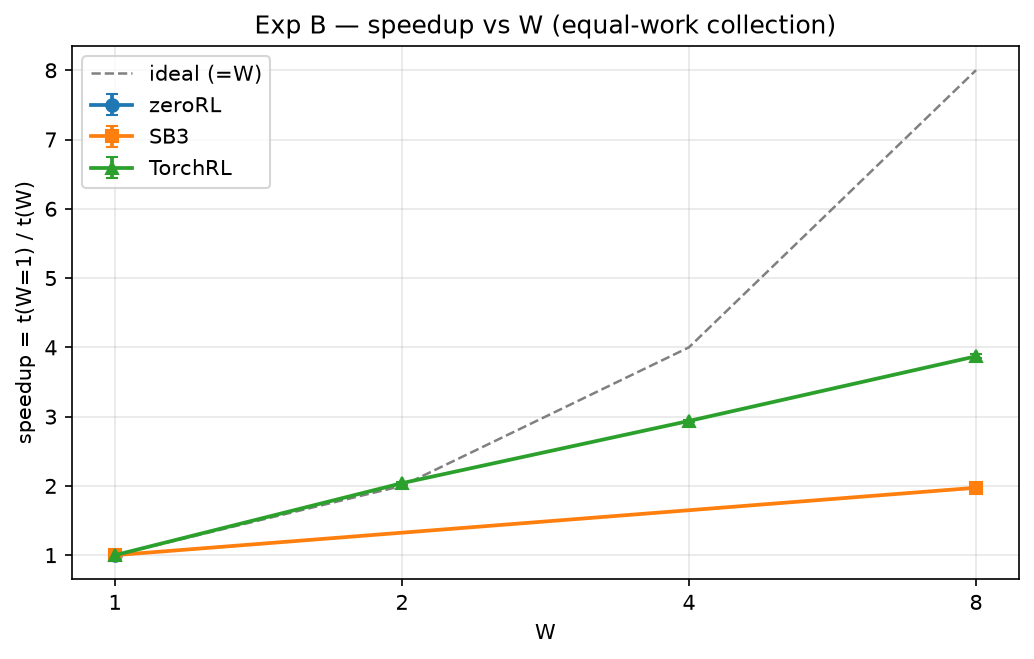
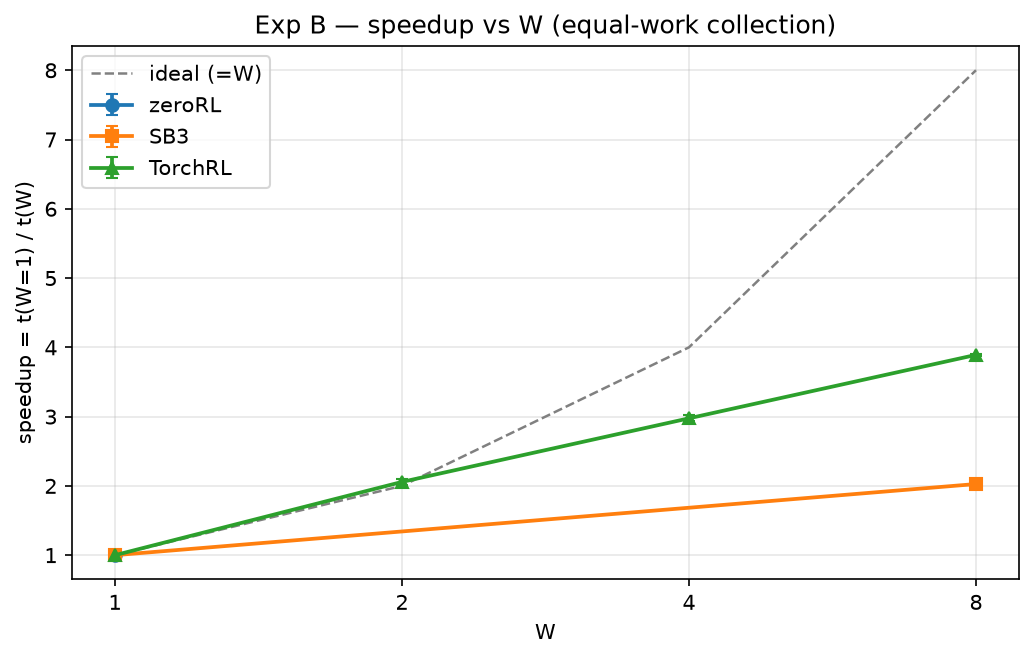
update results

diff --git a/benchmarks/scalability/results/REPORT.md b/benchmarks/scalability/results/REPORT.md
@@ -1,6 +1,6 @@
 # Scalability benchmark report
 
-Generated: 2026-11-08T14:12:19.817445+00:00 · rows: 427 · figures in `figures/`
+Generated: 2026-11-09T22:45:51.028926+00:00 · rows: 652 · figures in `figures/`
 
 ## Environment
 
@@ -33,21 +33,21 @@ Generated: 2026-11-08T14:12:19.817445+00:00 · rows: 427 · figures in `figures/
 
 | framework | N | throughput (trans/s) | mean time (s) | speedup (paired) | env-scaling efficiency (paired) | pairs (n) |
 | --- | --- | --- | --- | --- | --- | --- |
-| zeroRL | 1 | 606.0 ± 10.7 | 165.07 | 1.00 | 1.00 | 5 |
-| zeroRL | 2 | 806.7 ± 31.4 | 124.14 | 1.35 ± 0.01 | 0.68 ± 0.01 | 5 |
-| zeroRL | 4 | 1,074.0 ± 32.2 | 93.19 | 1.79 ± 0.01 | 0.45 ± 0.00 | 5 |
-| zeroRL | 8 | 1,136.9 ± 38.2 | 88.06 | 1.90 ± 0.02 | 0.24 ± 0.00 | 5 |
-| zeroRL | 16 | 1,329.3 ± 33.9 | 75.28 | 2.21 ± 0.01 | 0.14 ± 0.00 | 5 |
-| SB3 | 1 | 618.6 ± 10.1 | 161.71 | 1.00 | 1.00 | 5 |
-| SB3 | 2 | 791.7 ± 34.1 | 126.52 | 1.33 ± 0.01 | 0.66 ± 0.00 | 5 |
-| SB3 | 4 | 1,059.2 ± 29.9 | 94.48 | 1.74 ± 0.01 | 0.44 ± 0.00 | 5 |
-| SB3 | 8 | 1,116.7 ± 41.6 | 89.67 | 1.86 ± 0.01 | 0.23 ± 0.00 | 5 |
-| SB3 | 16 | 1,304.4 ± 33.7 | 76.71 | 2.14 ± 0.01 | 0.13 ± 0.00 | 5 |
-| TorchRL | 1 | 369.2 ± 14.1 | 271.25 | 1.00 | 1.00 | 5 |
-| TorchRL | 2 | 590.6 ± 19.1 | 169.50 | 1.59 ± 0.01 | 0.79 ± 0.01 | 5 |
-| TorchRL | 4 | 864.7 ± 22.6 | 115.72 | 2.31 ± 0.02 | 0.58 ± 0.00 | 5 |
-| TorchRL | 8 | 995.2 ± 38.1 | 100.61 | 2.66 ± 0.02 | 0.33 ± 0.00 | 5 |
-| TorchRL | 16 | 1,221.5 ± 32.6 | 81.92 | 3.23 ± 0.02 | 0.20 ± 0.00 | 5 |
+| zeroRL | 1 | 607.3 ± 9.7 | 164.70 | 1.00 | 1.00 | 5 |
+| zeroRL | 2 | 812.2 ± 28.7 | 123.27 | 1.35 ± 0.01 | 0.68 ± 0.00 | 5 |
+| zeroRL | 4 | 1,080.0 ± 29.8 | 92.66 | 1.79 ± 0.01 | 0.45 ± 0.00 | 5 |
+| zeroRL | 8 | 1,142.4 ± 34.3 | 87.61 | 1.89 ± 0.01 | 0.24 ± 0.00 | 5 |
+| zeroRL | 16 | 1,332.7 ± 29.9 | 75.07 | 2.20 ± 0.01 | 0.14 ± 0.00 | 5 |
+| SB3 | 1 | 622.3 ± 11.0 | 160.73 | 1.00 | 1.00 | 5 |
+| SB3 | 2 | 804.4 ± 37.0 | 124.57 | 1.33 ± 0.01 | 0.66 ± 0.01 | 5 |
+| SB3 | 4 | 1,071.6 ± 33.9 | 93.41 | 1.75 ± 0.01 | 0.44 ± 0.00 | 5 |
+| SB3 | 8 | 1,128.6 ± 41.5 | 88.72 | 1.84 ± 0.01 | 0.23 ± 0.00 | 5 |
+| SB3 | 16 | 1,314.7 ± 34.3 | 76.11 | 2.12 ± 0.01 | 0.13 ± 0.00 | 5 |
+| TorchRL | 1 | 373.7 ± 14.5 | 267.99 | 1.00 | 1.00 | 5 |
+| TorchRL | 2 | 597.6 ± 20.7 | 167.52 | 1.60 ± 0.01 | 0.80 ± 0.00 | 5 |
+| TorchRL | 4 | 872.2 ± 23.6 | 114.73 | 2.31 ± 0.01 | 0.58 ± 0.00 | 5 |
+| TorchRL | 8 | 1,005.5 ± 34.1 | 99.57 | 2.65 ± 0.02 | 0.33 ± 0.00 | 5 |
+| TorchRL | 16 | 1,228.5 ± 28.4 | 81.44 | 3.21 ± 0.02 | 0.20 ± 0.00 | 5 |
 
 ![throughput](figures/expA_humanoidstandupv5_throughput.png)
 
@@ -60,16 +60,41 @@ Generated: 2026-11-08T14:12:19.817445+00:00 · rows: 427 · figures in `figures/
 
 | framework | W | throughput (trans/s) | mean time (s) | speedup (paired) | worker parallel efficiency (paired) | pairs (n) |
 | --- | --- | --- | --- | --- | --- | --- |
-| zeroRL | 1 | 1,159.6 ± 6.7 | 86.24 | 1.00 | 1.00 | 5 |
-| SB3 | 1 | 1,167.6 ± 3.3 | 85.65 | 1.00 | 1.00 | 5 |
-| SB3 | 8 | 2,259.8 ± 57.7 | 44.28 | 1.97 ± 0.04 | 0.25 ± 0.01 | 5 |
-| TorchRL | 1 | 1,030.9 ± 3.2 | 97.01 | 1.00 | 1.00 | 5 |
-| TorchRL | 2 | 2,101.8 ± 20.2 | 47.58 | 2.04 ± 0.02 | 1.02 ± 0.01 | 5 |
-| TorchRL | 4 | 3,036.2 ± 24.0 | 32.94 | 2.94 ± 0.02 | 0.73 ± 0.00 | 5 |
-| TorchRL | 8 | 3,983.5 ± 25.7 | 25.10 | 3.87 ± 0.03 | 0.48 ± 0.00 | 5 |
+| zeroRL | 1 | 1,159.2 ± 6.4 | 86.27 | 1.00 | 1.00 | 5 |
+| SB3 | 1 | 1,168.4 ± 3.2 | 85.59 | 1.00 | 1.00 | 5 |
+| SB3 | 8 | 2,297.0 ± 73.4 | 43.58 | 2.03 ± 0.03 | 0.25 ± 0.00 | 5 |
+| TorchRL | 1 | 1,028.8 ± 4.1 | 97.20 | 1.00 | 1.00 | 5 |
+| TorchRL | 2 | 2,103.9 ± 28.4 | 47.54 | 2.06 ± 0.04 | 1.03 ± 0.02 | 5 |
+| TorchRL | 4 | 3,040.5 ± 31.7 | 32.89 | 2.98 ± 0.04 | 0.74 ± 0.01 | 5 |
+| TorchRL | 8 | 3,984.8 ± 21.5 | 25.10 | 3.89 ± 0.01 | 0.49 ± 0.00 | 5 |
 
 **Unsupported (recorded, not run)**:
 
+- zeroRL W=2: zeroRL has no multi-process environment path (vectorize_env -> SyncVectorEnv only); W>=2 unsupported
+- zeroRL W=2: zeroRL has no multi-process environment path (vectorize_env -> SyncVectorEnv only); W>=2 unsupported
+- zeroRL W=2: zeroRL has no multi-process environment path (vectorize_env -> SyncVectorEnv only); W>=2 unsupported
+- zeroRL W=2: zeroRL has no multi-process environment path (vectorize_env -> SyncVectorEnv only); W>=2 unsupported
+- zeroRL W=2: zeroRL has no multi-process environment path (vectorize_env -> SyncVectorEnv only); W>=2 unsupported
+- zeroRL W=4: zeroRL has no multi-process environment path (vectorize_env -> SyncVectorEnv only); W>=2 unsupported
+- zeroRL W=4: zeroRL has no multi-process environment path (vectorize_env -> SyncVectorEnv only); W>=2 unsupported
+- zeroRL W=4: zeroRL has no multi-process environment path (vectorize_env -> SyncVectorEnv only); W>=2 unsupported
+- zeroRL W=4: zeroRL has no multi-process environment path (vectorize_env -> SyncVectorEnv only); W>=2 unsupported
+- zeroRL W=4: zeroRL has no multi-process environment path (vectorize_env -> SyncVectorEnv only); W>=2 unsupported
+- zeroRL W=8: zeroRL has no multi-process environment path (vectorize_env -> SyncVectorEnv only); W>=2 unsupported
+- zeroRL W=8: zeroRL has no multi-process environment path (vectorize_env -> SyncVectorEnv only); W>=2 unsupported
+- zeroRL W=8: zeroRL has no multi-process environment path (vectorize_env -> SyncVectorEnv only); W>=2 unsupported
+- zeroRL W=8: zeroRL has no multi-process environment path (vectorize_env -> SyncVectorEnv only); W>=2 unsupported
+- zeroRL W=8: zeroRL has no multi-process environment path (vectorize_env -> SyncVectorEnv only); W>=2 unsupported
+- SB3 W=2: SB3 SubprocVecEnv runs exactly one process per env, so only W=1 (DummyVecEnv) and W=8 (SubprocVecEnv) exist; W=2 unsupported
+- SB3 W=2: SB3 SubprocVecEnv runs exactly one process per env, so only W=1 (DummyVecEnv) and W=8 (SubprocVecEnv) exist; W=2 unsupported
+- SB3 W=2: SB3 SubprocVecEnv runs exactly one process per env, so only W=1 (DummyVecEnv) and W=8 (SubprocVecEnv) exist; W=2 unsupported
+- SB3 W=2: SB3 SubprocVecEnv runs exactly one process per env, so only W=1 (DummyVecEnv) and W=8 (SubprocVecEnv) exist; W=2 unsupported
+- SB3 W=2: SB3 SubprocVecEnv runs exactly one process per env, so only W=1 (DummyVecEnv) and W=8 (SubprocVecEnv) exist; W=2 unsupported
+- SB3 W=4: SB3 SubprocVecEnv runs exactly one process per env, so only W=1 (DummyVecEnv) and W=8 (SubprocVecEnv) exist; W=4 unsupported
+- SB3 W=4: SB3 SubprocVecEnv runs exactly one process per env, so only W=1 (DummyVecEnv) and W=8 (SubprocVecEnv) exist; W=4 unsupported
+- SB3 W=4: SB3 SubprocVecEnv runs exactly one process per env, so only W=1 (DummyVecEnv) and W=8 (SubprocVecEnv) exist; W=4 unsupported
+- SB3 W=4: SB3 SubprocVecEnv runs exactly one process per env, so only W=1 (DummyVecEnv) and W=8 (SubprocVecEnv) exist; W=4 unsupported
+- SB3 W=4: SB3 SubprocVecEnv runs exactly one process per env, so only W=1 (DummyVecEnv) and W=8 (SubprocVecEnv) exist; W=4 unsupported
 - zeroRL W=2: zeroRL has no multi-process environment path (vectorize_env -> SyncVectorEnv only); W>=2 unsupported
 - zeroRL W=2: zeroRL has no multi-process environment path (vectorize_env -> SyncVectorEnv only); W>=2 unsupported
 - zeroRL W=2: zeroRL has no multi-process environment path (vectorize_env -> SyncVectorEnv only); W>=2 unsupported
@@ -132,61 +157,95 @@ Generated: 2026-11-08T14:12:19.817445+00:00 · rows: 427 · figures in `figures/
 
 | framework | N | updates | throughput (trans/s) | mean time (s) | mean return (last 100) | reps |
 | --- | --- | --- | --- | --- | --- | --- |
-| zeroRL | 1 | 128 | 428.1 ± 2.5 | 612.4 | 75,253.6 ± 5,108.2 | 6 |
-| zeroRL | 2 | 64 | 536.7 ± 4.2 | 488.4 | 75,079.7 ± 3,892.0 | 6 |
-| zeroRL | 4 | 32 | 650.7 ± 5.7 | 402.9 | 64,966.9 ± 4,545.7 | 6 |
-| zeroRL | 8 | 16 | 687.6 ± 7.3 | 381.3 | 57,229.6 ± 1,909.4 | 6 |
-| zeroRL | 16 | 8 | 762.7 ± 4.1 | 343.7 | 47,649.0 ± 799.5 | 6 |
-| SB3 | 1 | 128 | 418.7 ± 8.6 | 626.3 | 80,410.9 ± 2,362.9 | 6 |
-| SB3 | 2 | 64 | 526.3 ± 5.7 | 498.2 | 73,775.3 ± 2,866.8 | 6 |
-| SB3 | 4 | 32 | 627.7 ± 5.9 | 417.6 | 70,151.9 ± 1,711.2 | 6 |
-| SB3 | 8 | 16 | 655.1 ± 6.0 | 400.2 | 62,676.0 ± 2,365.7 | 6 |
-| SB3 | 16 | 8 | 721.4 ± 3.4 | 363.4 | 50,308.9 ± 2,015.7 | 6 |
-| TorchRL | 1 | 128 | 264.9 ± 2.9 | 989.6 | 72,593.4 ± 2,624.9 | 6 |
-| TorchRL | 2 | 64 | 365.5 ± 3.4 | 717.3 | 73,504.3 ± 3,083.8 | 6 |
-| TorchRL | 4 | 32 | 460.4 ± 4.5 | 569.4 | 67,696.1 ± 2,503.8 | 6 |
-| TorchRL | 8 | 16 | 503.9 ± 4.2 | 520.3 | 64,621.7 ± 824.4 | 6 |
-| TorchRL | 16 | 8 | 560.1 ± 4.2 | 468.1 | 48,612.7 ± 1,557.2 | 6 |
+| zeroRL | 1 | 128 | 427.0 ± 2.8 | 614.0 | 75,253.6 ± 4,946.0 | 9 |
+| zeroRL | 2 | 64 | 533.8 ± 6.0 | 491.1 | 75,079.7 ± 3,768.4 | 9 |
+| zeroRL | 4 | 32 | 650.0 ± 4.7 | 403.3 | 64,966.9 ± 4,401.4 | 9 |
+| zeroRL | 8 | 16 | 684.4 ± 7.6 | 383.0 | 57,229.6 ± 1,848.8 | 9 |
+| zeroRL | 16 | 8 | 760.5 ± 5.6 | 344.7 | 47,649.0 ± 774.1 | 9 |
+| SB3 | 1 | 128 | 418.5 ± 7.6 | 626.6 | 80,410.9 ± 2,287.9 | 9 |
+| SB3 | 2 | 64 | 526.2 ± 5.1 | 498.2 | 73,775.3 ± 2,775.7 | 9 |
+| SB3 | 4 | 32 | 627.0 ± 4.9 | 418.1 | 70,151.9 ± 1,656.8 | 9 |
+| SB3 | 8 | 16 | 654.8 ± 5.5 | 400.4 | 62,676.0 ± 2,290.6 | 9 |
+| SB3 | 16 | 8 | 719.8 ± 4.0 | 364.2 | 50,308.9 ± 1,951.7 | 9 |
+| TorchRL | 1 | 128 | 264.0 ± 2.6 | 992.9 | 72,593.4 ± 2,541.5 | 9 |
+| TorchRL | 2 | 64 | 364.2 ± 3.6 | 719.9 | 73,504.3 ± 2,985.9 | 9 |
+| TorchRL | 4 | 32 | 459.4 ± 3.9 | 570.7 | 67,696.1 ± 2,424.3 | 9 |
+| TorchRL | 8 | 16 | 501.9 ± 4.9 | 522.4 | 64,621.7 ± 798.2 | 9 |
+| TorchRL | 16 | 8 | 558.4 ± 4.6 | 469.5 | 48,612.7 ± 1,507.8 | 9 |
 
 ![throughput](figures/expC_humanoidstandupv5_throughput.png)
 
 ![returns](figures/expC_humanoidstandupv5_returns.png)
 
 
+## Experiment D — PPO training protocol (fixed global rollout of 2048) [humanoidstandupv5]
+
+| framework | N | updates | throughput (trans/s) | mean time (s) | mean return (last 100) | reps |
+| --- | --- | --- | --- | --- | --- | --- |
+| zeroRL | 1 | 128 | 426.8 ± 0.4 | 614.3 | 75,253.6 ± 5,711.2 | 3 |
+| zeroRL | 2 | 128 | 527.1 ± 4.3 | 497.3 | 72,579.6 ± 5,331.1 | 3 |
+| zeroRL | 4 | 128 | 636.1 ± 8.4 | 412.2 | 76,379.8 ± 7,525.0 | 3 |
+| zeroRL | 8 | 128 | 658.1 ± 11.9 | 398.4 | 69,645.4 ± 3,713.6 | 3 |
+| zeroRL | 16 | 128 | 728.0 ± 9.9 | 360.1 | 72,338.4 ± 3,679.5 | 3 |
+| SB3 | 1 | 128 | 427.1 ± 6.7 | 613.9 | 80,410.9 ± 2,641.8 | 3 |
+| SB3 | 2 | 128 | 531.5 ± 4.8 | 493.2 | 71,057.8 ± 10,239.6 | 3 |
+| SB3 | 4 | 128 | 614.0 ± 1.3 | 426.9 | 80,706.0 ± 2,756.5 | 3 |
+| SB3 | 8 | 128 | 630.6 ± 6.2 | 415.8 | 76,177.3 ± 8,083.8 | 3 |
+| SB3 | 16 | 128 | 686.7 ± 11.7 | 381.8 | 75,692.0 ± 4,241.8 | 3 |
+| TorchRL | 1 | 128 | 265.6 ± 2.6 | 986.9 | 72,593.4 ± 2,934.7 | 3 |
+| TorchRL | 2 | 128 | 360.0 ± 0.7 | 728.3 | 79,422.3 ± 4,355.2 | 3 |
+| TorchRL | 4 | 128 | 449.2 ± 2.5 | 583.6 | 72,755.0 ± 5,498.7 | 3 |
+| TorchRL | 8 | 128 | 492.0 ± 1.2 | 532.9 | 62,886.5 ± 7,454.8 | 3 |
+| TorchRL | 16 | 128 | 543.0 ± 1.6 | 482.7 | 61,041.8 ± 7,763.8 | 3 |
+
+![throughput](figures/expD_humanoidstandupv5_throughput.png)
+
+![returns](figures/expD_humanoidstandupv5_returns.png)
+
+
 ## Findings (computed from the data)
 
-- Exp A collection, N=1: fastest = **SB3** (619 trans/s); also zeroRL 606, TorchRL 369.
-- Exp A collection, N=2: fastest = **zeroRL** (807 trans/s); also SB3 792, TorchRL 591.
-- Exp A collection, N=4: fastest = **zeroRL** (1,074 trans/s); also SB3 1,059, TorchRL 865.
-- Exp A collection, N=8: fastest = **zeroRL** (1,137 trans/s); also SB3 1,117, TorchRL 995.
-- Exp A collection, N=16: fastest = **zeroRL** (1,329 trans/s); also SB3 1,304, TorchRL 1,221.
-- Exp B collection, W=1 (N=8): fastest = **SB3** (1,168 trans/s); also zeroRL 1,160, TorchRL 1,031.
-- Exp B collection, W=2 (N=8): fastest = **TorchRL** (2,102 trans/s).
-- Exp B collection, W=4 (N=8): fastest = **TorchRL** (3,036 trans/s).
-- Exp B collection, W=8 (N=8): fastest = **TorchRL** (3,984 trans/s); also SB3 2,260.
-- Exp C PPO, N=1: fastest = **zeroRL** (428 trans/s); also SB3 419, TorchRL 265.
-- Exp C PPO, N=2: fastest = **zeroRL** (537 trans/s); also SB3 526, TorchRL 365.
-- Exp C PPO, N=4: fastest = **zeroRL** (651 trans/s); also SB3 628, TorchRL 460.
-- Exp C PPO, N=8: fastest = **zeroRL** (688 trans/s); also SB3 655, TorchRL 504.
-- Exp C PPO, N=16: fastest = **zeroRL** (763 trans/s); also SB3 721, TorchRL 560.
-- zeroRL env-scaling efficiency at N=16: 0.14 ± 0.00 (speedup 2.21 ± 0.01, n=5 paired reps, 16x envs).
-- SB3 env-scaling efficiency at N=16: 0.13 ± 0.00 (speedup 2.14 ± 0.01, n=5 paired reps, 16x envs).
-- TorchRL env-scaling efficiency at N=16: 0.20 ± 0.00 (speedup 3.23 ± 0.02, n=5 paired reps, 16x envs).
+- Exp A collection, N=1: fastest = **SB3** (622 trans/s); also zeroRL 607, TorchRL 374.
+- Exp A collection, N=2: fastest = **zeroRL** (812 trans/s); also SB3 804, TorchRL 598.
+- Exp A collection, N=4: fastest = **zeroRL** (1,080 trans/s); also SB3 1,072, TorchRL 872.
+- Exp A collection, N=8: fastest = **zeroRL** (1,142 trans/s); also SB3 1,129, TorchRL 1,005.
+- Exp A collection, N=16: fastest = **zeroRL** (1,333 trans/s); also SB3 1,315, TorchRL 1,229.
+- Exp B collection, W=1 (N=8): fastest = **SB3** (1,168 trans/s); also zeroRL 1,159, TorchRL 1,029.
+- Exp B collection, W=2 (N=8): fastest = **TorchRL** (2,104 trans/s).
+- Exp B collection, W=4 (N=8): fastest = **TorchRL** (3,040 trans/s).
+- Exp B collection, W=8 (N=8): fastest = **TorchRL** (3,985 trans/s); also SB3 2,297.
+- Exp C PPO, N=1: fastest = **zeroRL** (427 trans/s); also SB3 418, TorchRL 264.
+- Exp C PPO, N=2: fastest = **zeroRL** (534 trans/s); also SB3 526, TorchRL 364.
+- Exp C PPO, N=4: fastest = **zeroRL** (650 trans/s); also SB3 627, TorchRL 459.
+- Exp C PPO, N=8: fastest = **zeroRL** (684 trans/s); also SB3 655, TorchRL 502.
+- Exp C PPO, N=16: fastest = **zeroRL** (761 trans/s); also SB3 720, TorchRL 558.
+- Exp D PPO, N=1: fastest = **SB3** (427 trans/s); also zeroRL 427, TorchRL 266.
+- Exp D PPO, N=2: fastest = **SB3** (532 trans/s); also zeroRL 527, TorchRL 360.
+- Exp D PPO, N=4: fastest = **zeroRL** (636 trans/s); also SB3 614, TorchRL 449.
+- Exp D PPO, N=8: fastest = **zeroRL** (658 trans/s); also SB3 631, TorchRL 492.
+- Exp D PPO, N=16: fastest = **zeroRL** (728 trans/s); also SB3 687, TorchRL 543.
+- zeroRL env-scaling efficiency at N=16: 0.14 ± 0.00 (speedup 2.20 ± 0.01, n=5 paired reps, 16x envs).
+- SB3 env-scaling efficiency at N=16: 0.13 ± 0.00 (speedup 2.12 ± 0.01, n=5 paired reps, 16x envs).
+- TorchRL env-scaling efficiency at N=16: 0.20 ± 0.00 (speedup 3.21 ± 0.02, n=5 paired reps, 16x envs).
 - zeroRL worker parallel efficiency at W=1: 1.00 (speedup 1.00, n=5 paired reps, 1x workers).
-- SB3 worker parallel efficiency at W=8: 0.25 ± 0.01 (speedup 1.97 ± 0.04, n=5 paired reps, 8x workers).
-- TorchRL worker parallel efficiency at W=8: 0.48 ± 0.00 (speedup 3.87 ± 0.03, n=5 paired reps, 8x workers).
+- SB3 worker parallel efficiency at W=8: 0.25 ± 0.00 (speedup 2.03 ± 0.03, n=5 paired reps, 8x workers).
+- TorchRL worker parallel efficiency at W=8: 0.49 ± 0.00 (speedup 3.89 ± 0.01, n=5 paired reps, 8x workers).
+- zeroRL N=1: training throughput C=427 vs D=427 trans/s (≈ equal).
+- SB3 N=1: training throughput C=418 vs D=427 trans/s (D faster).
+- TorchRL N=1: training throughput C=264 vs D=266 trans/s (≈ equal).
 
 ## Data integrity
 
 | experiment | ok | failed | unsupported |
 | --- | --- | --- | --- |
-| A | 217 | 0 | 0 |
-| B | 70 | 0 | 50 |
-| C | 90 | 0 | 0 |
+| A | 292 | 0 | 0 |
+| B | 105 | 0 | 75 |
+| C | 135 | 0 | 0 |
+| D | 45 | 0 | 0 |
 
 All ok rows recorded an exact transition budget.
 
-Total rows: 427.
+Total rows: 652.
 
 ## Appendix — protocol C/D configuration (from a result row)
 

diff --git a/benchmarks/resources/results/REPORT.md b/benchmarks/resources/results/REPORT.md
@@ -1,6 +1,6 @@
 # Resource-consumption benchmark report
 
-Generated: 2026-11-07T20:42:43.014182+00:00 · results: /home/research/projects/zeroRL/benchmarks/resources/results
+Generated: 2026-11-09T22:47:01.283221+00:00 · results: /home/research/projects/zeroRL/benchmarks/resources/results
 
 ## Resource consumption (experiment R)
 
@@ -8,12 +8,12 @@ Fixed workloads, device CPU. CPU% = sum over the live process tree (multiprocess
 
 | workload | framework | wall (s) | cpu util avg (%) | cpu total (s) | cpu s / 1k | rss peak (MiB) | n |
 | --- | --- | --- | --- | --- | --- | --- | --- |
-| collect | zeroRL | 25.6 ± 0.2 | 916.9 ± 6.5 | 235.0 ± 0.8 | 2.35 ± 0.01 | 819.0 ± 16.0 | 7 |
-| collect | SB3 | 25.6 ± 0.2 | 916.1 ± 8.1 | 235.7 ± 0.9 | 2.36 ± 0.01 | 846.7 ± 3.6 | 5 |
-| collect | TorchRL | 34.6 ± 0.4 | 705.8 ± 8.5 | 244.5 ± 2.4 | 2.44 ± 0.02 | 986.4 ± 4.8 | 5 |
-| ppo | zeroRL | 219.4 ± 1.5 | 873.0 ± 4.4 | 1,911.8 ± 8.4 | 7.29 ± 0.03 | 1,033.7 ± 5.4 | 3 |
-| ppo | SB3 | 263.7 ± 1.1 | 902.8 ± 3.1 | 2,378.0 ± 5.4 | 9.07 ± 0.02 | 1,049.9 ± 3.2 | 3 |
-| ppo | TorchRL | 395.6 ± 1.9 | 814.0 ± 2.7 | 3,201.3 ± 5.5 | 12.21 ± 0.02 | 1,068.2 ± 3.4 | 3 |
+| collect | zeroRL | 25.6 ± 0.2 | 917.0 ± 5.3 | 235.3 ± 0.9 | 2.35 ± 0.01 | 820.5 ± 15.0 | 12 |
+| collect | SB3 | 25.6 ± 0.2 | 916.2 ± 7.0 | 235.6 ± 0.8 | 2.36 ± 0.01 | 850.5 ± 5.4 | 10 |
+| collect | TorchRL | 34.9 ± 0.5 | 702.7 ± 11.9 | 245.1 ± 3.1 | 2.45 ± 0.03 | 986.1 ± 4.4 | 10 |
+| ppo | zeroRL | 219.4 ± 0.9 | 872.7 ± 3.2 | 1,910.9 ± 7.6 | 7.29 ± 0.03 | 1,033.6 ± 4.8 | 6 |
+| ppo | SB3 | 263.3 ± 1.1 | 903.3 ± 2.4 | 2,376.0 ± 5.5 | 9.06 ± 0.02 | 1,049.8 ± 2.9 | 6 |
+| ppo | TorchRL | 395.5 ± 1.6 | 814.0 ± 1.8 | 3,201.1 ± 7.3 | 12.21 ± 0.03 | 1,068.2 ± 2.9 | 6 |
 
 - GPU telemetry: unavailable — NVML unavailable or produced no samples.
 - Energy: unavailable — GPU power telemetry unsupported on this device and no RAPL/powercap energy interface for CPU/whole-system energy.
@@ -27,17 +27,17 @@ _Memory note: raw values are bytes (v2; v1 rows/sample files used KiB); averages
 
 | framework | rss (MiB) | pss (MiB) | uss (MiB) | peak rss — measure phase (MiB) | n |
 | --- | --- | --- | --- | --- | --- |
-| zeroRL | 819.0 ± 16.0 | 811.2 ± 15.9 | 809.9 ± 15.9 | 814.6 ± 15.8 | 7 |
-| SB3 | 846.7 ± 3.6 | 839.1 ± 3.6 | 837.8 ± 3.6 | 844.3 ± 6.0 | 5 |
-| TorchRL | 986.4 ± 4.8 | 979.0 ± 4.9 | 977.7 ± 4.9 | 986.4 ± 4.8 | 5 |
+| zeroRL | 820.5 ± 15.0 | 812.7 ± 15.0 | 811.4 ± 15.0 | 816.4 ± 15.4 | 12 |
+| SB3 | 850.5 ± 5.4 | 842.8 ± 5.3 | 841.5 ± 5.3 | 849.3 ± 7.2 | 10 |
+| TorchRL | 986.1 ± 4.4 | 978.7 ± 4.5 | 977.3 ± 4.5 | 986.1 ± 4.4 | 10 |
 
 **Average (end-to-end, time-weighted)**
 
 | framework | rss (MiB) | pss (MiB) | uss (MiB) | n |
 | --- | --- | --- | --- | --- |
-| zeroRL | 813.8 ± 16.0 | 805.9 ± 16.0 | 804.6 ± 16.0 | 7 |
-| SB3 | 843.2 ± 5.4 | 835.5 ± 5.6 | 834.2 ± 5.6 | 5 |
-| TorchRL | 985.3 ± 5.8 | 977.9 ± 5.8 | 976.6 ± 5.8 | 5 |
+| zeroRL | 815.2 ± 15.1 | 807.4 ± 15.1 | 806.1 ± 15.1 | 12 |
+| SB3 | 847.9 ± 6.7 | 840.1 ± 6.7 | 838.8 ± 6.7 | 10 |
+| TorchRL | 985.1 ± 5.3 | 977.6 ± 5.3 | 976.3 ± 5.3 | 10 |
 
 ### Memory (RSS / PSS / USS) — ppo
 
@@ -45,14 +45,14 @@ _Memory note: raw values are bytes (v2; v1 rows/sample files used KiB); averages
 
 | framework | rss (MiB) | pss (MiB) | uss (MiB) | peak rss — measure phase (MiB) | n |
 | --- | --- | --- | --- | --- | --- |
-| zeroRL | 1,033.7 ± 5.4 | 1,016.6 ± 5.4 | 1,007.2 ± 5.4 | 1,033.6 ± 5.4 | 3 |
-| SB3 | 1,049.9 ± 3.2 | 1,032.8 ± 3.3 | 1,023.5 ± 3.3 | 1,049.9 ± 3.3 | 3 |
-| TorchRL | 1,068.2 ± 3.4 | 1,051.2 ± 3.3 | 1,041.8 ± 3.3 | 1,068.2 ± 3.4 | 3 |
+| zeroRL | 1,033.6 ± 4.8 | 1,016.4 ± 4.8 | 1,007.0 ± 4.8 | 1,033.6 ± 4.9 | 6 |
+| SB3 | 1,049.8 ± 2.9 | 1,032.6 ± 2.9 | 1,023.2 ± 2.9 | 1,049.8 ± 2.9 | 6 |
+| TorchRL | 1,068.2 ± 2.9 | 1,051.1 ± 2.8 | 1,041.7 ± 2.8 | 1,068.2 ± 2.9 | 6 |
 
 **Average (end-to-end, time-weighted)**
 
 | framework | rss (MiB) | pss (MiB) | uss (MiB) | n |
 | --- | --- | --- | --- | --- |
-| zeroRL | 1,031.9 ± 4.8 | 1,014.8 ± 4.9 | 1,005.4 ± 4.9 | 3 |
-| SB3 | 1,048.5 ± 4.3 | 1,031.6 ± 4.2 | 1,022.2 ± 4.2 | 3 |
-| TorchRL | 1,064.8 ± 2.9 | 1,048.0 ± 2.9 | 1,038.6 ± 2.9 | 3 |
+| zeroRL | 1,031.8 ± 4.5 | 1,014.5 ± 4.5 | 1,005.1 ± 4.5 | 6 |
+| SB3 | 1,048.4 ± 3.8 | 1,031.3 ± 3.8 | 1,021.9 ± 3.8 | 6 |
+| TorchRL | 1,064.6 ± 2.7 | 1,047.6 ± 2.7 | 1,038.3 ± 2.7 | 6 |
